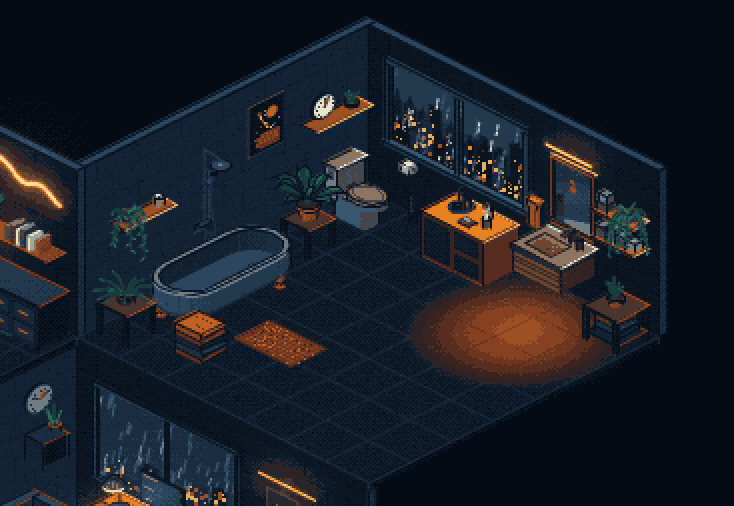
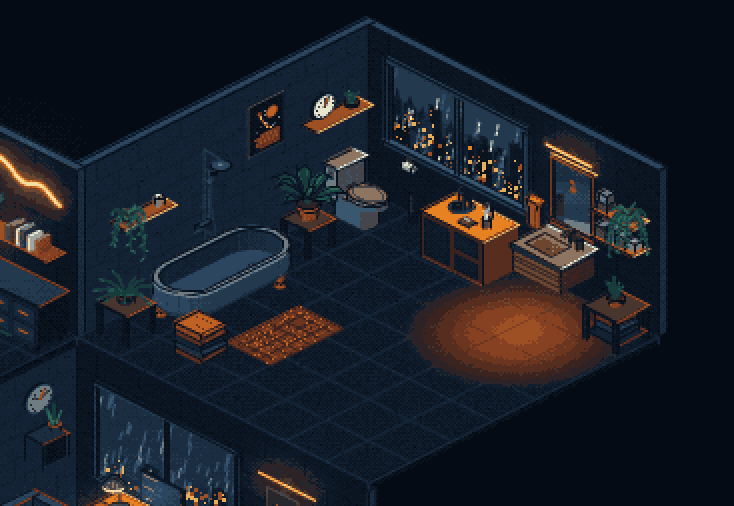
w
w

Changed region(s): [[0.2997, 0.5929, 0.4796, 0.7411], [0.5395, 0.2964, 0.5695, 0.3557]]

diff --git a/src/assets/bathMat.js b/src/assets/bathMat.js
@@ -1,6 +1,7 @@
 /* ═══════════════════════════════════════════════════════════════
    assets/bathMat.js — the bath mat: a rust weave in a fine grid,
-   a dark bound edge, flecked where the pile catches the light.
+   a coarser dark grid over it where the weave is bound, a dark
+   bound edge, flecked where the pile catches the light.
 
    bathMat(x, y, w, d)
      footprint x..x+w by y..y+d, flat on the floor.
@@ -16,6 +17,10 @@
     poly([[x, y, z], [x + w, y, z], [x + w, y + d, z], [x, y + d, z]], rgb(base));
     for (let i = 0.22; i < w; i += 0.22) stroke([[x + i, y, z], [x + i, y + d, z]], rgb(weave));
     for (let j = 0.22; j < d; j += 0.22) stroke([[x, y + j, z], [x + w, y + j, z]], rgb(weave));
+    // the binding: a coarser grid in the dark ink, cells about half a unit, whole ones the short way
+    const cell = Math.min(w, d) / Math.round(Math.min(w, d) / 0.5);
+    for (let i = cell; i < w - 0.05; i += cell) stroke([[x + i, y, z], [x + i, y + d, z]], rgb(M.rustDk));
+    for (let j = cell; j < d - 0.05; j += cell) stroke([[x, y + j, z], [x + w, y + j, z]], rgb(M.rustDk));
     stroke([[x, y, z], [x + w, y, z], [x + w, y + d, z], [x, y + d, z]], rgb(M.rustDk), 1, true);
     stroke([[x + 0.1, y + 0.1, z], [x + w - 0.1, y + 0.1, z], [x + w - 0.1, y + d - 0.1, z], [x + 0.1, y + d - 0.1, z]], rgb(weave), 1, true);
     grain(Math.round(w * d * 9), lt, 27, 1, R => [x + R() * w, y + R() * d, z]);

diff --git a/src/scene/roomThree.js b/src/scene/roomThree.js
@@ -75,7 +75,7 @@
     lightning = storm.flash();
     room.floor();
     pool(BARC[0] + 0.5, 3.3, 4.4);
-    A.bathMat(3.9, 8.6, 2.7, 1.7);
+    A.bathMat(3.9, 7.2, 2.1, 3.5);                                  // long side along the tub, a step out from its feet, clear of the towels
     room.walls();
 
     /* ── left wall, far to near ── */
